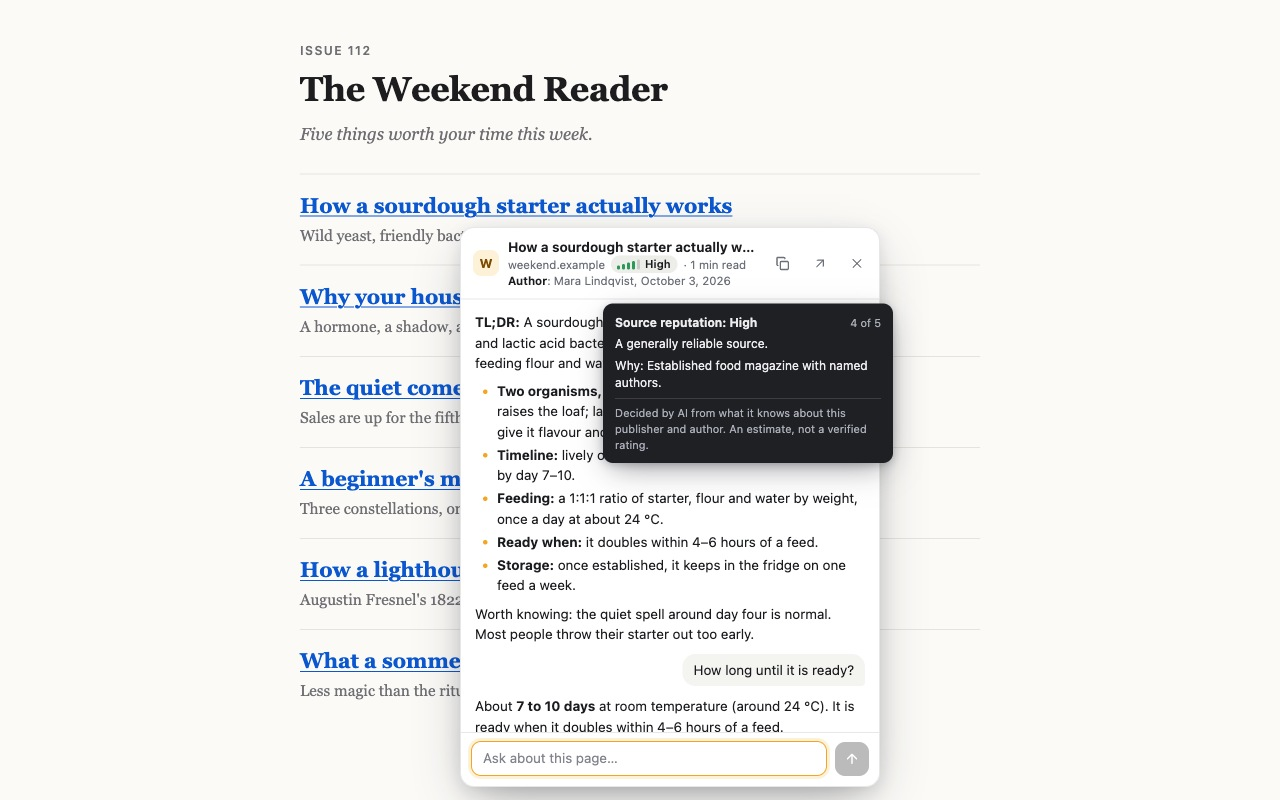
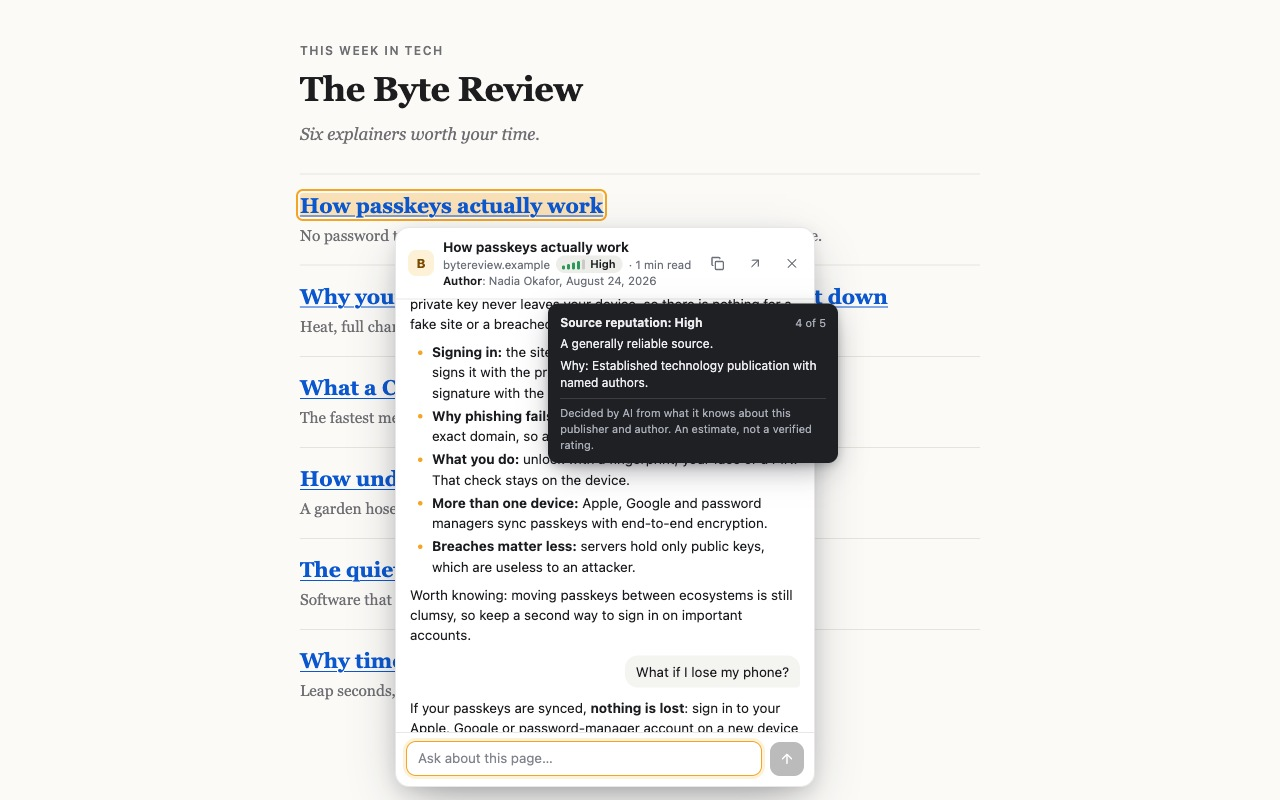
Highlight the link a bubble belongs to; tech article in screenshots
- While a bubble is open, its link gets an amber ring and highlighter
  tint, so it is clear what the bubble is about. Only non-layout
  properties are set, with !important, and the link's own inline styles
  are restored exactly when the bubble closes or moves to another link.
  Also applies to links opened from the context menu.
- Screenshots (README and store) now show a tech explainer on passkeys
  on a "The Byte Review" demo page instead of the sourdough fixture.

diff --git a/src/content.js b/src/content.js
@@ -127,12 +127,50 @@
     return bytes >= 1024 * 1024 ? `${(bytes / 1024 / 1024).toFixed(1)} MB` : `${Math.max(1, Math.round(bytes / 1024))} KB`;
   }
 
+  // ── Marking the link ─────────────────────────────────────────────────
+
+  // While a bubble is open, the link it belongs to is marked on the page, the
+  // way a highlighter pen would, so it is obvious what the bubble is about.
+  // None of these properties changes the page's layout.
+  const LINK_MARK = {
+    'background-color': 'rgba(245, 165, 36, 0.3)',
+    outline: '2px solid #f5a524',
+    'outline-offset': '2px',
+    'border-radius': '3px',
+  };
+
+  /** Marks the link and returns a function that puts its styles back exactly. */
+  function markLink(anchor) {
+    try {
+      const style = anchor.style;
+      const hadAttribute = anchor.hasAttribute('style');
+      const before = Object.keys(LINK_MARK).map((name) => [
+        name, style.getPropertyValue(name), style.getPropertyPriority(name),
+      ]);
+      for (const [name, value] of Object.entries(LINK_MARK)) style.setProperty(name, value, 'important');
+      return () => {
+        try {
+          for (const [name, value, priority] of before) {
+            if (value) style.setProperty(name, value, priority);
+            else style.removeProperty(name);
+          }
+          if (!hadAttribute && !anchor.getAttribute('style')) anchor.removeAttribute('style');
+        } catch {
+          // the element is gone; nothing to restore
+        }
+      };
+    } catch {
+      return () => {};
+    }
+  }
+
   // ── The bubble ───────────────────────────────────────────────────────
 
   class Bubble {
-    constructor({ url, linkText, point, rect }) {
+    constructor({ url, linkText, point, rect, anchor }) {
       this.url = url;
       this.linkText = linkText || '';
+      this.unmarkLink = anchor ? markLink(anchor) : () => {};
       this.page = null; // what the service worker read, once known
       this.history = []; // completed turns after the page: summary, Q, A, …
       this.summary = '';
@@ -689,6 +727,7 @@
       this.closed = true;
       cancelAnimationFrame(this.frame);
       this.closeReputationPort();
+      this.unmarkLink();
       try {
         this.cancel?.();
       } catch {
@@ -761,6 +800,7 @@
       linkText: linkLabel(anchor),
       point: { x: event.clientX, y: event.clientY },
       rect: anchor.getBoundingClientRect(),
+      anchor,
     });
   }
 
@@ -800,9 +840,11 @@
   }
 
   function onContextMenu(event) {
+    const anchor = findAnchor(event);
     lastContext = {
       point: { x: event.clientX, y: event.clientY },
-      label: linkLabel(findAnchor(event)),
+      label: linkLabel(anchor),
+      anchor,
       time: Date.now(),
     };
   }
@@ -811,7 +853,15 @@
   function onMessage(message) {
     if (message?.type !== 'linkpeek:open' || typeof message.url !== 'string') return;
     const recent = lastContext && Date.now() - lastContext.time < 60_000 ? lastContext : null;
-    openBubble({ url: message.url, linkText: recent?.label || '', point: recent?.point });
+    // Only mark the link that was right-clicked if it is the one being opened.
+    const anchor = recent?.anchor && linkUrl(recent.anchor) === message.url ? recent.anchor : null;
+    openBubble({
+      url: message.url,
+      linkText: recent?.label || '',
+      point: recent?.point,
+      rect: anchor?.getBoundingClientRect(),
+      anchor,
+    });
   }
 
   function onStorageChanged(changes, area) {

diff --git a/test/e2e/fixtures/passkeys.html b/test/e2e/fixtures/passkeys.html
@@ -1,0 +1,58 @@
+<!doctype html>
+<html lang="en">
+  <head>
+    <meta charset="utf-8" />
+    <title>How passkeys actually work | The Byte Review</title>
+    <!-- The article behind the first link on demo.html. Used for screenshots only. -->
+    <meta property="og:title" content="How passkeys actually work" />
+    <meta property="og:site_name" content="The Byte Review" />
+    <meta name="author" content="Nadia Okafor" />
+    <meta property="article:published_time" content="2026-08-24T09:00:00Z" />
+    <meta name="description" content="No password to steal, nothing to type, and a login that a fake site cannot use." />
+  </head>
+  <body>
+    <nav>Home · Security · Hardware · Software · About</nav>
+    <main>
+      <article>
+        <header>
+          <h1>How passkeys actually work</h1>
+          <p>By Nadia Okafor</p>
+        </header>
+        <p>
+          A password is a secret you share with a website, which means the website can lose it. A
+          passkey removes the shared secret. When you create one, your device generates a pair of
+          keys: a private key that never leaves the device, and a public key that the website
+          stores. The public key is safe to publish. It can check a signature, but it cannot make one.
+        </p>
+        <h2>What happens when you sign in</h2>
+        <p>
+          The website sends your device a random challenge. Your device asks you to unlock it with
+          a fingerprint, your face or a PIN, then signs the challenge with the private key and sends
+          the signature back. The website checks it against the public key it has on file. Nothing
+          reusable crosses the network, and the fingerprint or face check never leaves the device.
+        </p>
+        <h2>Why phishing stops working</h2>
+        <p>
+          Each passkey is tied to the exact domain it was created for. Your device will not offer the
+          passkey for your bank to a look-alike address, however convincing the page looks. There is
+          also nothing to type, so there is nothing for a fake login form to capture. A breach of the
+          website's database exposes only public keys, which are useless to an attacker.
+        </p>
+        <h2>Using them on more than one device</h2>
+        <ul>
+          <li>Apple, Google and most password managers sync passkeys across your devices with end-to-end encryption.</li>
+          <li>To sign in on a computer you do not own, you can scan a QR code and approve the login on your phone.</li>
+          <li>Hardware security keys can hold passkeys that are never synced at all.</li>
+        </ul>
+        <h2>The rough edges</h2>
+        <p>
+          Moving passkeys from one ecosystem to another is still clumsy, and account recovery depends
+          on each service. Until that improves, keep a second way to sign in on the accounts that
+          matter most.
+        </p>
+      </article>
+      <aside>Sign up for the weekly digest.</aside>
+    </main>
+    <footer>© 2026 The Byte Review</footer>
+  </body>
+</html>

diff --git a/test/e2e/fixtures/demo.html b/test/e2e/fixtures/demo.html
@@ -3,7 +3,7 @@
   <head>
     <meta charset="utf-8" />
     <meta name="viewport" content="width=device-width, initial-scale=1" />
-    <title>The Weekend Reader</title>
+    <title>The Byte Review</title>
     <!-- A tidy page for screenshots (README and store listing). Tests use index.html. -->
     <style>
       :root { color-scheme: light dark; --bg: #fbfaf7; --fg: #1d1d1f; --muted: #6e6e73; --line: #e6e3dc; --link: #0b57d0; }
@@ -21,33 +21,33 @@
   </head>
   <body>
     <main>
-      <p class="kicker">Issue 112</p>
-      <h1>The Weekend Reader</h1>
-      <p class="dek">Five things worth your time this week.</p>
+      <p class="kicker">This week in tech</p>
+      <h1>The Byte Review</h1>
+      <p class="dek">Six explainers worth your time.</p>
 
       <article>
-        <h2><a id="article" href="/article.html">How a sourdough starter actually works</a></h2>
-        <p>Wild yeast, friendly bacteria, and why day four always looks like failure.</p>
+        <h2><a id="article" href="/passkeys.html">How passkeys actually work</a></h2>
+        <p>No password to steal, nothing to type, and a login that a fake site cannot use.</p>
       </article>
       <article>
-        <h2><a href="/article.html">Why your houseplants lean toward the window</a></h2>
-        <p>A hormone, a shadow, and a slow race that every seedling runs.</p>
+        <h2><a href="/passkeys.html">Why your laptop battery ages, and how to slow it down</a></h2>
+        <p>Heat, full charges and time: the three things lithium cells dislike most.</p>
       </article>
       <article>
-        <h2><a href="/article.html">The quiet comeback of the paper notebook</a></h2>
-        <p>Sales are up for the fifth year. The people buying them explain why.</p>
+        <h2><a href="/passkeys.html">What a CPU cache really does</a></h2>
+        <p>The fastest memory in your computer is also the smallest. Here is why.</p>
       </article>
       <article>
-        <h2><a href="/article.html">A beginner's map of the winter night sky</a></h2>
-        <p>Three constellations, one planet, and no telescope required.</p>
+        <h2><a href="/passkeys.html">How undersea cables carry the internet</a></h2>
+        <p>A garden hose of glass on the ocean floor, and the ships that mend it.</p>
       </article>
       <article>
-        <h2><a href="/article.html">How a lighthouse lens throws light twenty miles</a></h2>
-        <p>Augustin Fresnel's 1822 idea, still turning on a bed of mercury.</p>
+        <h2><a href="/passkeys.html">The quiet return of the local-first app</a></h2>
+        <p>Software that still works on a plane, and syncs when you land.</p>
       </article>
       <article>
-        <h2><a href="/article.html">What a sommelier actually tastes</a></h2>
-        <p>Less magic than the ritual suggests, and more memory.</p>
+        <h2><a href="/passkeys.html">Why time zones keep breaking software</a></h2>
+        <p>Leap seconds, half-hour offsets and a town that changed its mind.</p>
       </article>
     </main>
   </body>

diff --git a/store/listing.md b/store/listing.md
@@ -33,7 +33,7 @@ Hold X and click any link for an AI summary in a bubble, then ask follow-up ques
 Hold X and click any link. A small bubble opens next to it with a summary of the page behind the link, and a box to ask follow-up questions. You never leave the page you are reading.
 
 WHAT IT DOES
-• Summarizes the linked page in place. The page is read in the background and the summary streams into a bubble beside the link.
+• Summarizes the linked page in place. The page is read in the background and the summary streams into a bubble beside the link. The link is highlighted while its bubble is open, so it is always clear what the bubble is about.
 • Answers your questions about that page, keeping the conversation in context.
 • Shows who is talking: the author or publishing organization, the date, and a five-bar reputation meter for the source. Hover over the meter to see what the rating means and why. The rating is an estimate made by the AI, not a verified score.
 • Remembers. Peek at the same page again and the saved summary appears at once, as long as the page has not changed.

diff --git a/README.md b/README.md
@@ -11,7 +11,7 @@ LinkPeek is a Chrome extension. It uses your own Claude (Anthropic) or OpenAI AP
 
 ## What it does
 
-- **Summarizes the link, in place.** The page is read in the background; the summary streams into a bubble beside the link.
+- **Summarizes the link, in place.** The page is read in the background; the summary streams into a bubble beside the link. The link itself is highlighted while its bubble is open, so you always see what the bubble is about.
 - **Answers questions.** Type in the bubble to ask anything about the linked page. The conversation keeps its context.
 - **Shows who is talking.** The bubble's header names the author (or the publishing organization) and the date, next to a five-bar reputation meter for the source.
 - **Remembers.** Peek at the same page again and the saved summary appears at once, with no new request, as long as the page has not changed.
